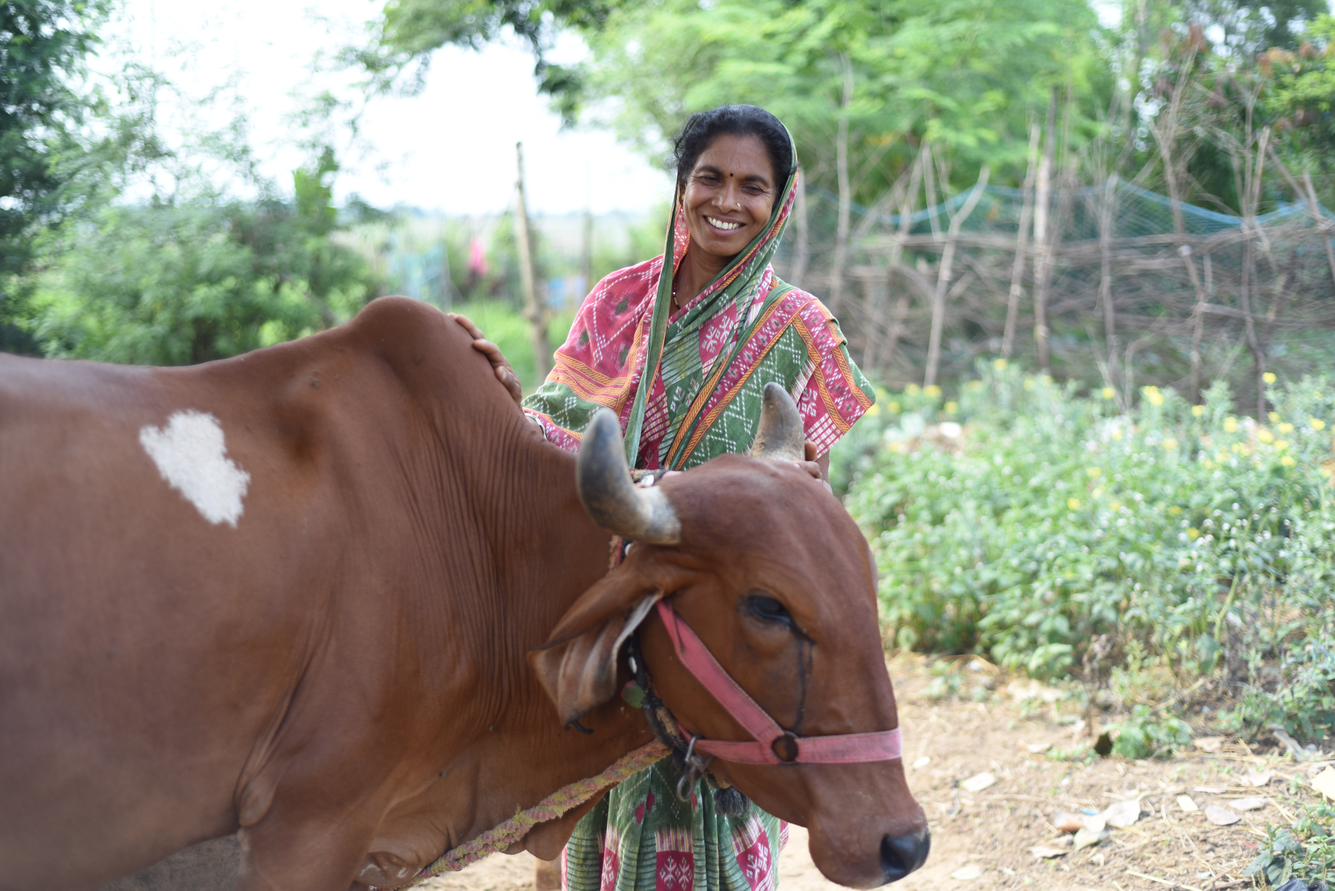
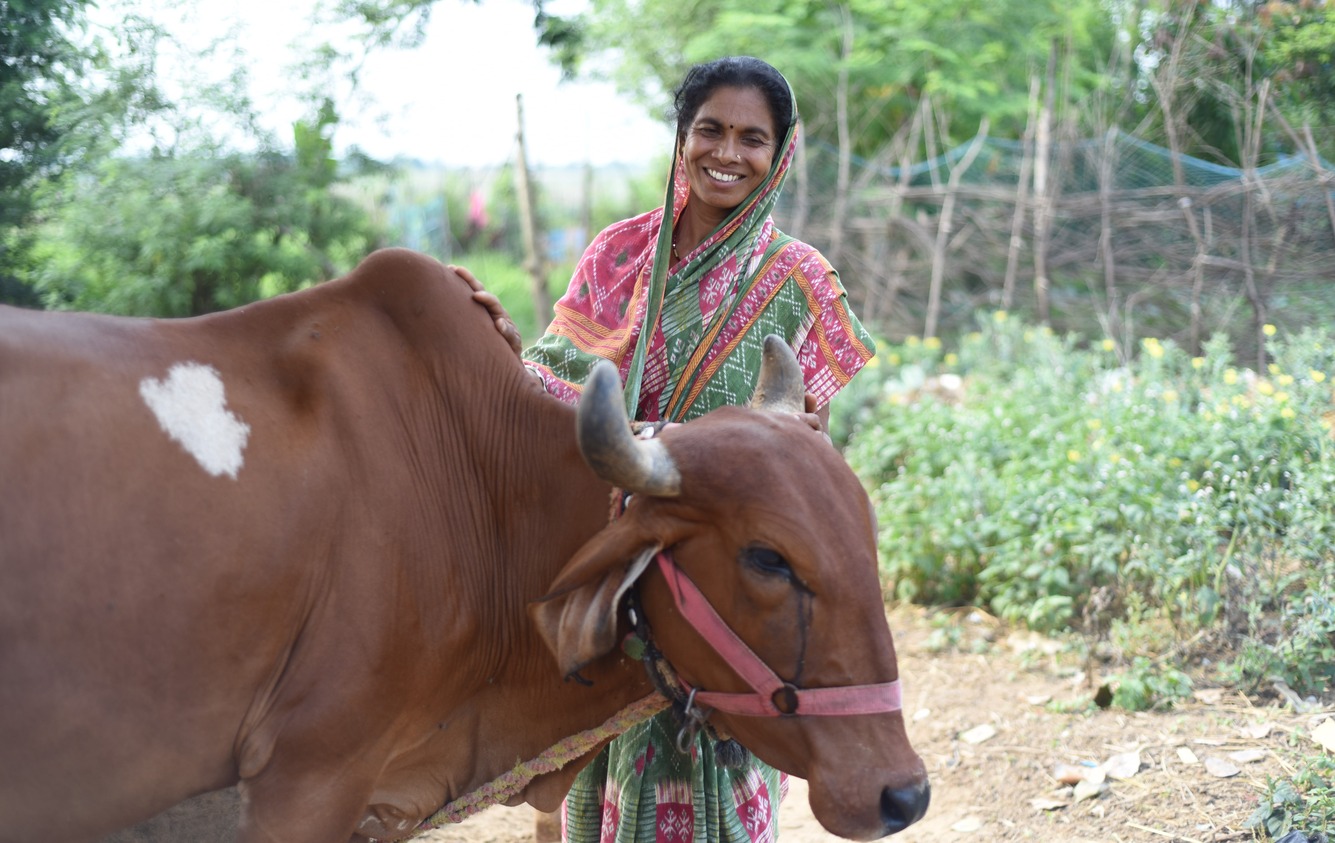
changes

diff --git a/src/components/Footer/index.jsx b/src/components/Footer/index.jsx
@@ -3,6 +3,7 @@ import nds_logo from "../../assets/img/nds_logo.png";
 import CallIcon from "@mui/icons-material/Call";
 import MailIcon from "@mui/icons-material/Mail";
 import LocationPinIcon from "@mui/icons-material/LocationPin";
+import footerIcon from "../../Images/footerIcon1.svg";
 import "./Footer.css";
 const Footer = () => {
   return (
@@ -54,7 +55,6 @@ const Footer = () => {
               </div>
             </div>
           </div>
-
           <div className="col-md-3 col-xl-auto">
             <div className="widget footer-widget">
               <h3 className="widget_title">Get In Touch</h3>
@@ -127,17 +127,16 @@ const Footer = () => {
                         display: "flex",
                         alignItems: "center",
                         justifyContent: "center",
+                        background: "#a46c35ff",
                       }}
                     >
-                      <img src="assets/img/icon/plane.svg" alt="" />
+                      <img src={footerIcon} alt="" />
                     </button>
                   </form>
                 </div>
               </div>
             </div>
           </div>
-          <div className="col-md-3 col-xl-auto"></div>
-          <div className="col-md-3 col-xl-auto"></div>
         </div>
       </div>
       <div className="copyright-wrap">

diff --git a/src/components/AboutUs/AboutSection.jsx b/src/components/AboutUs/AboutSection.jsx
@@ -38,7 +38,7 @@ const AboutSection = () => {
               className="ps-xl-4 ms-xxl-4 position-relative"
               style={{ zIndex: 1 }}
             >
-              <div className="title-area about1-title-box mb-20 pe-xxl-5 me-xxl-5">
+              <div className="title-area about1-title-box mb-10 pe-xxl-5 me-xxl-5">
                 <AnimatedText
                   text="NDDB Dairy Services"
                   tag="h2"
@@ -89,7 +89,7 @@ const AboutSection = () => {
                   alt="About"
                   style={{
                     width: "325px",
-                    height: "630px",
+                    height: "650px",
                     objectFit: "cover",
                   }}
                 />
@@ -100,7 +100,7 @@ const AboutSection = () => {
                   alt="About"
                   style={{
                     width: "312px",
-                    height: "315px",
+                    height: "325px",
                     objectFit: "cover",
                   }}
                 />
@@ -111,7 +111,7 @@ const AboutSection = () => {
                   alt="About"
                   style={{
                     width: "312px",
-                    height: "315px",
+                    height: "325px",
                     objectFit: "cover",
                   }}
                 />

diff --git a/src/components/AboutUs/AboutSection2.jsx b/src/components/AboutUs/AboutSection2.jsx
@@ -47,7 +47,7 @@ const AboutSection2 = () => {
                       alt="About"
                       style={{
                         width: "312px",
-                        height: "331.05px",
+                        height: "280px",
                         objectFit: "cover",
                       }}
                     />
@@ -63,7 +63,7 @@ const AboutSection2 = () => {
                       alt="About"
                       style={{
                         width: "312px",
-                        height: "331.05px",
+                        height: "280px",
                         objectFit: "cover",
                       }}
                     />

diff --git a/public/assets/css/style.css b/public/assets/css/style.css
@@ -25105,7 +25105,7 @@ span.select2-selection.select2-selection--single:focus {
 }
 .counter-card {
   position: relative;
-  background-color: #f2f5fa;
+  background-color: #fbf9f7;
   /* padding: 20px 10px; */
   padding: 30px 10px 10px 10px;
   width: 264px;
